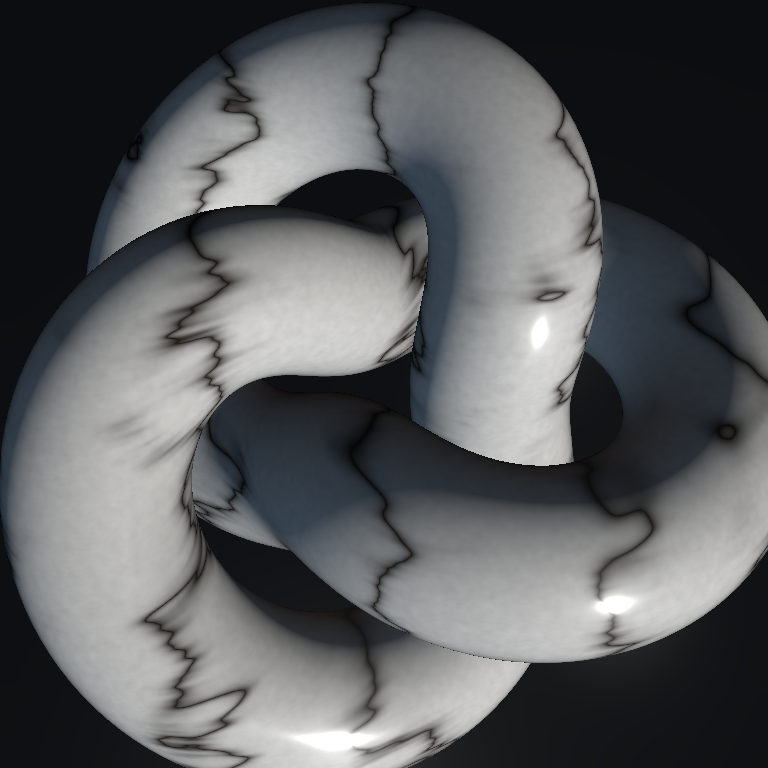
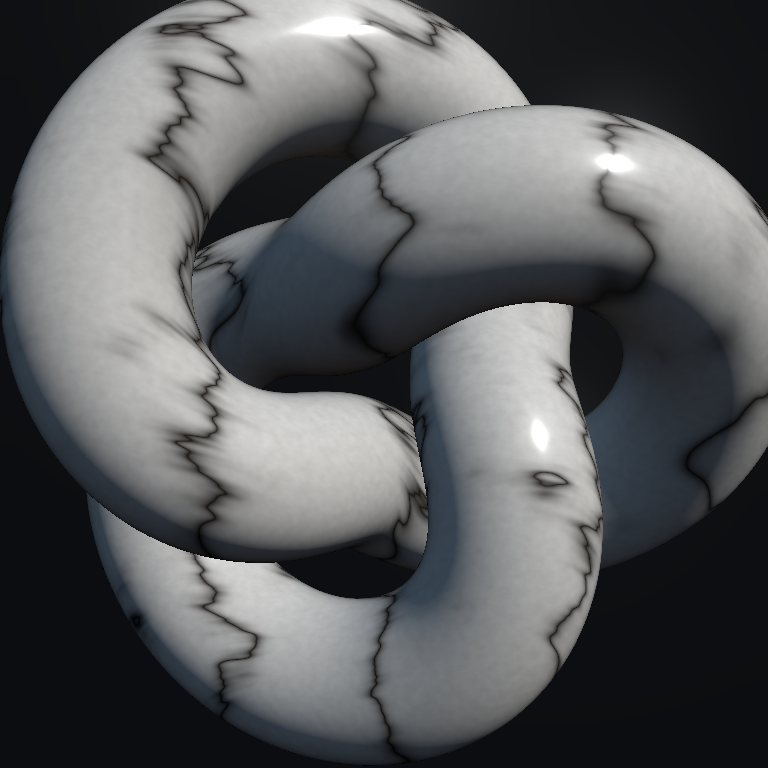
Fix Y-flipped readbacks and sharpen noise to fractal detail
WebGPU framebuffers are top-left origin, so readRenderTargetPixelsAsync
rows already arrive top-down; the harness blit and the preview writer
were flipping them and mirroring every capture vertically. The noise
stack gains turbulence3 (fbm over folded signed noise, rotated octaves)
and the visible crust fields switch to it with more octaves — rough,
fine, rubble, tone, and the micro grain — plus a smaller micro epsilon
and stronger micro normals, so the rock reads as gritty fractal detail
instead of smooth clouds. Previews regenerated.

Claude-Session: https://claude.ai/code/session_016LagSa3e7nym5icJi3TRmZ

diff --git a/examples/three-tsl/src/lava-material.ts b/examples/three-tsl/src/lava-material.ts
@@ -117,7 +117,7 @@ export function createLavaMaterial(options: LavaMaterialOptions = {}): LavaMater
   ).div(eps);
   const tangentGrad = grad.sub(normalLocal.mul(grad.dot(normalLocal)));
 
-  const microEps = 0.008;
+  const microEps = 0.005;
   const microGrad = vec3(
     microDetail({ position: p.add(vec3(microEps, 0, 0)) }).x.sub(grain),
     microDetail({ position: p.add(vec3(0, microEps, 0)) }).x.sub(grain),
@@ -127,7 +127,7 @@ export function createLavaMaterial(options: LavaMaterialOptions = {}): LavaMater
 
   const bumped = normalLocal
     .sub(tangentGrad.mul(mix(float(0.22), float(0.04), molten)))
-    .sub(microTangent.mul(mix(float(0.035), float(0.006), molten)))
+    .sub(microTangent.mul(mix(float(0.045), float(0.008), molten)))
     .normalize();
   material.normalNode = transformNormalToView(bumped);
 

diff --git a/examples/three-tsl/scripts/generate-previews.ts b/examples/three-tsl/scripts/generate-previews.ts
@@ -111,11 +111,8 @@ async function main(): Promise<void> {
     const pixels = (await renderer.readRenderTargetPixelsAsync(target, 0, 0, SIZE, SIZE)) as Uint8Array;
 
     const png = new PNG({ width: SIZE, height: SIZE });
-    for (let y = 0; y < SIZE; y++) {
-      // readRenderTargetPixelsAsync returns rows bottom-up; PNG is top-down.
-      const src = (SIZE - 1 - y) * SIZE * 4;
-      png.data.set(pixels.subarray(src, src + SIZE * 4), y * SIZE * 4);
-    }
+    // WebGPU framebuffers are top-left origin: rows come back top-down already.
+    png.data.set(pixels.subarray(0, SIZE * SIZE * 4));
     for (let i = 3; i < png.data.length; i += 4) png.data[i] = 255;
     const file = `${OUT_DIR}${materialName}.png`;
     writeFileSync(file, PNG.sync.write(png));

diff --git a/examples/three-tsl/src/harness.ts b/examples/three-tsl/src/harness.ts
@@ -84,11 +84,8 @@ async function run(): Promise<unknown> {
   view.style.imageRendering = "pixelated";
   const context2d = view.getContext("2d")!;
   const image = context2d.createImageData(size, size);
-  for (let y = 0; y < size; y++) {
-    // readRenderTargetPixelsAsync returns rows bottom-up; 2D canvas is top-down.
-    const src = (size - 1 - y) * size * 4;
-    image.data.set(pixels.subarray(src, src + size * 4), y * size * 4);
-  }
+  // WebGPU framebuffers are top-left origin: rows come back top-down already.
+  image.data.set(pixels.subarray(0, size * size * 4));
   context2d.putImageData(image, 0, 0);
   document.body.append(view);
 
